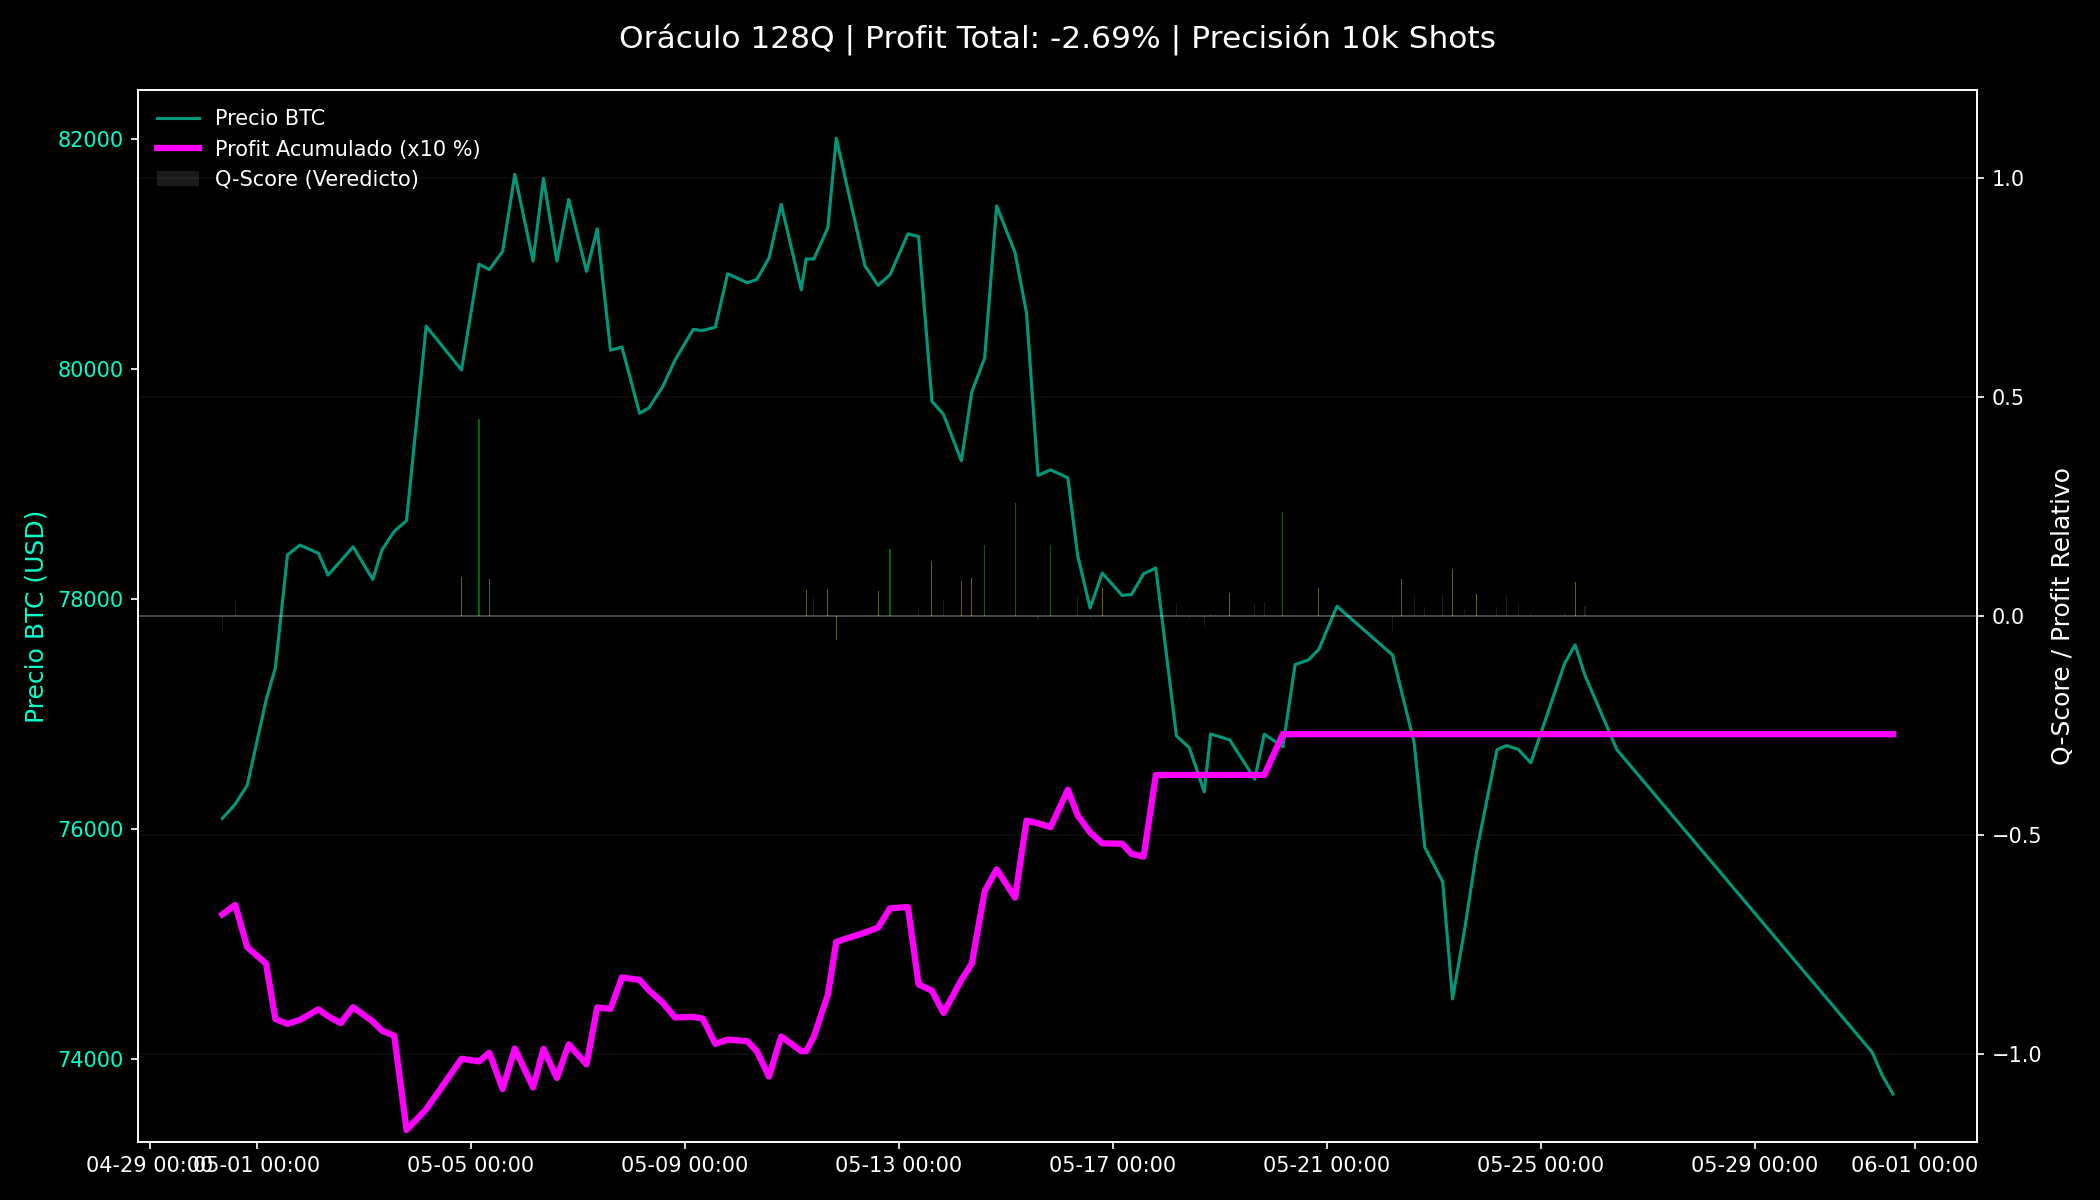
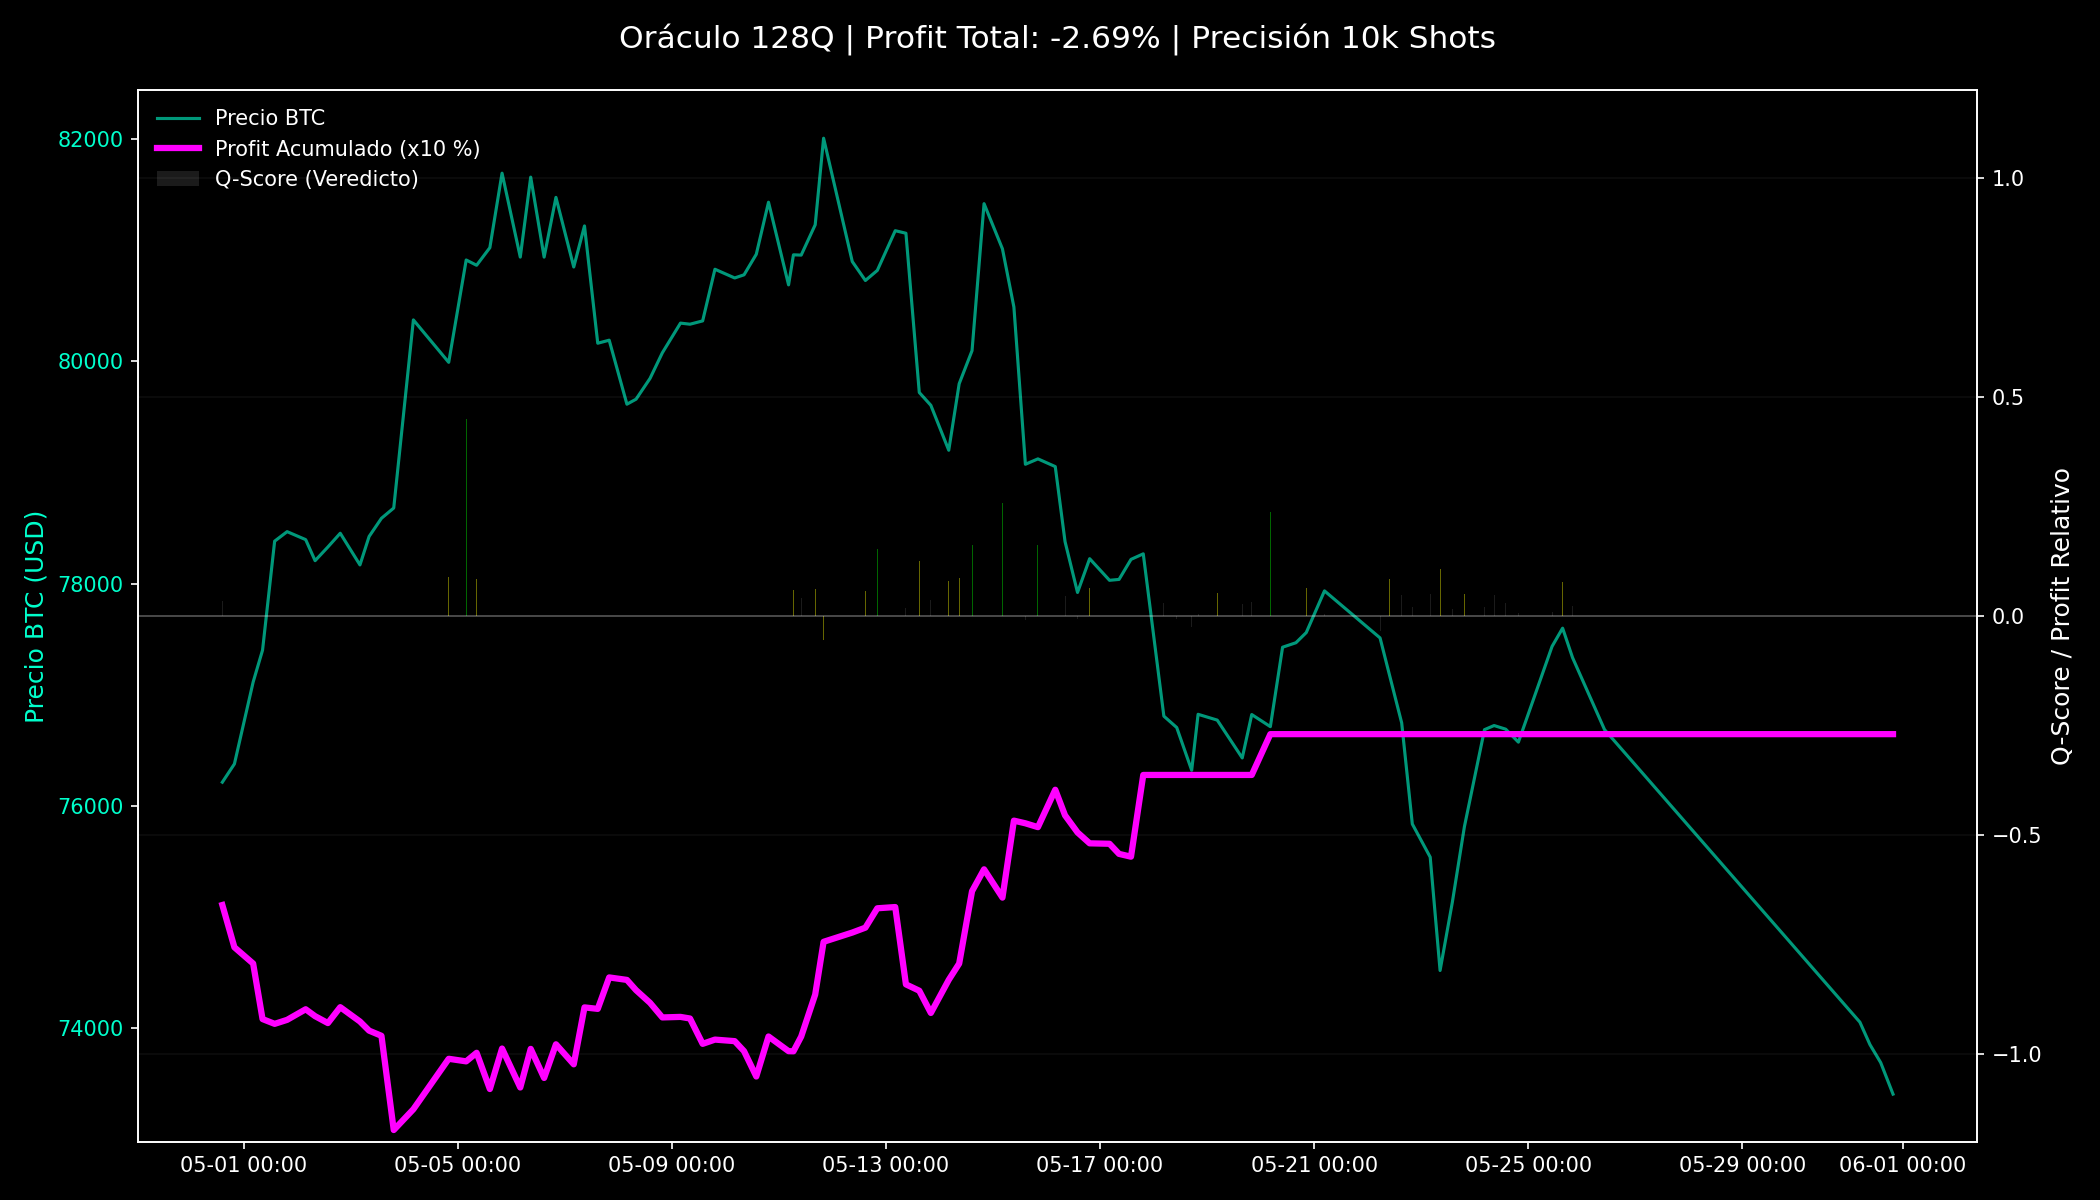
Deploying to gh-pages from @ alconero-hub/oraculo_cuantico@4138f548c1b3f16e2a61c1778e82fe4ac6724e22 🚀

diff --git a/README.md b/README.md
@@ -1,9 +1,9 @@
 # 🌌 Oráculo Cuántico 128Q
 ![Señal](https://img.shields.io/badge/ORÁCULO-💤%20LATERAL-lightgrey?style=for-the-badge)
-* **Precio BTC:** `$73,691.56` | **Q-Score:** `+0.0000`
+* **Precio BTC:** `$73,407.99` | **Q-Score:** `+0.0000`
 * **Hardware:** `Standby (<0.08%)` | **Shots:** `5000`
-* **Volatilidad:** `0.0590%` | **Adaptativo:** `True`
-* **Sync:** `2026-05-31 14:07:02 UTC`
+* **Volatilidad:** `0.0630%` | **Adaptativo:** `True`
+* **Sync:** `2026-05-31 19:38:55 UTC`
 
 ---
 ![Gráfica](./rendimiento_cuantico.png)